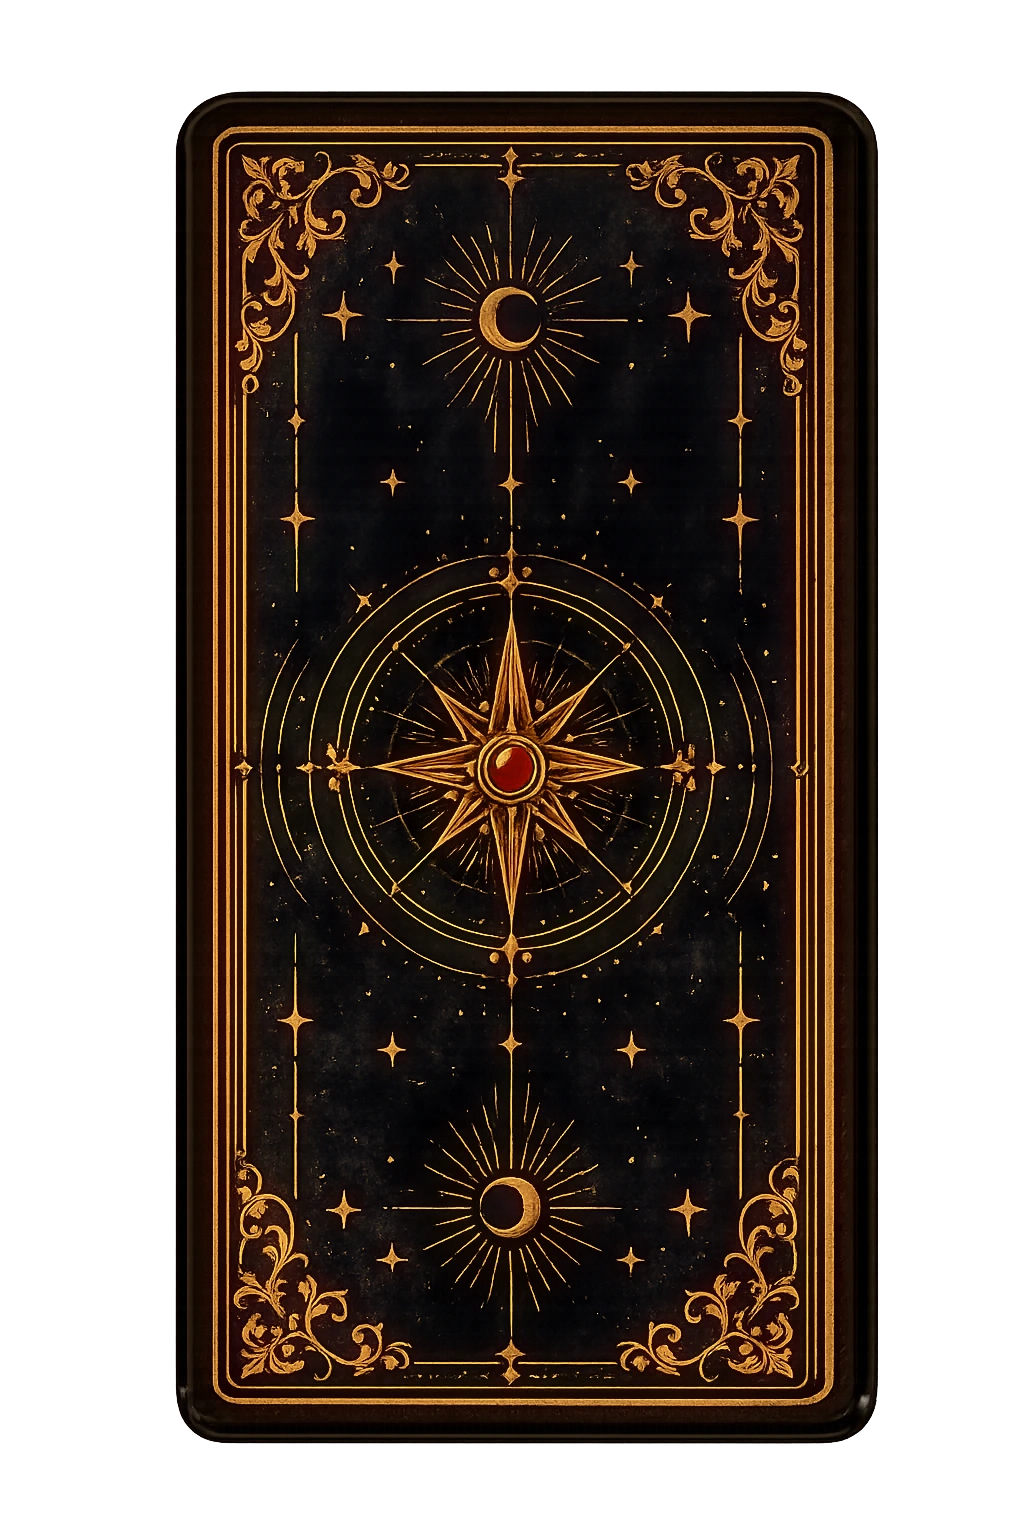
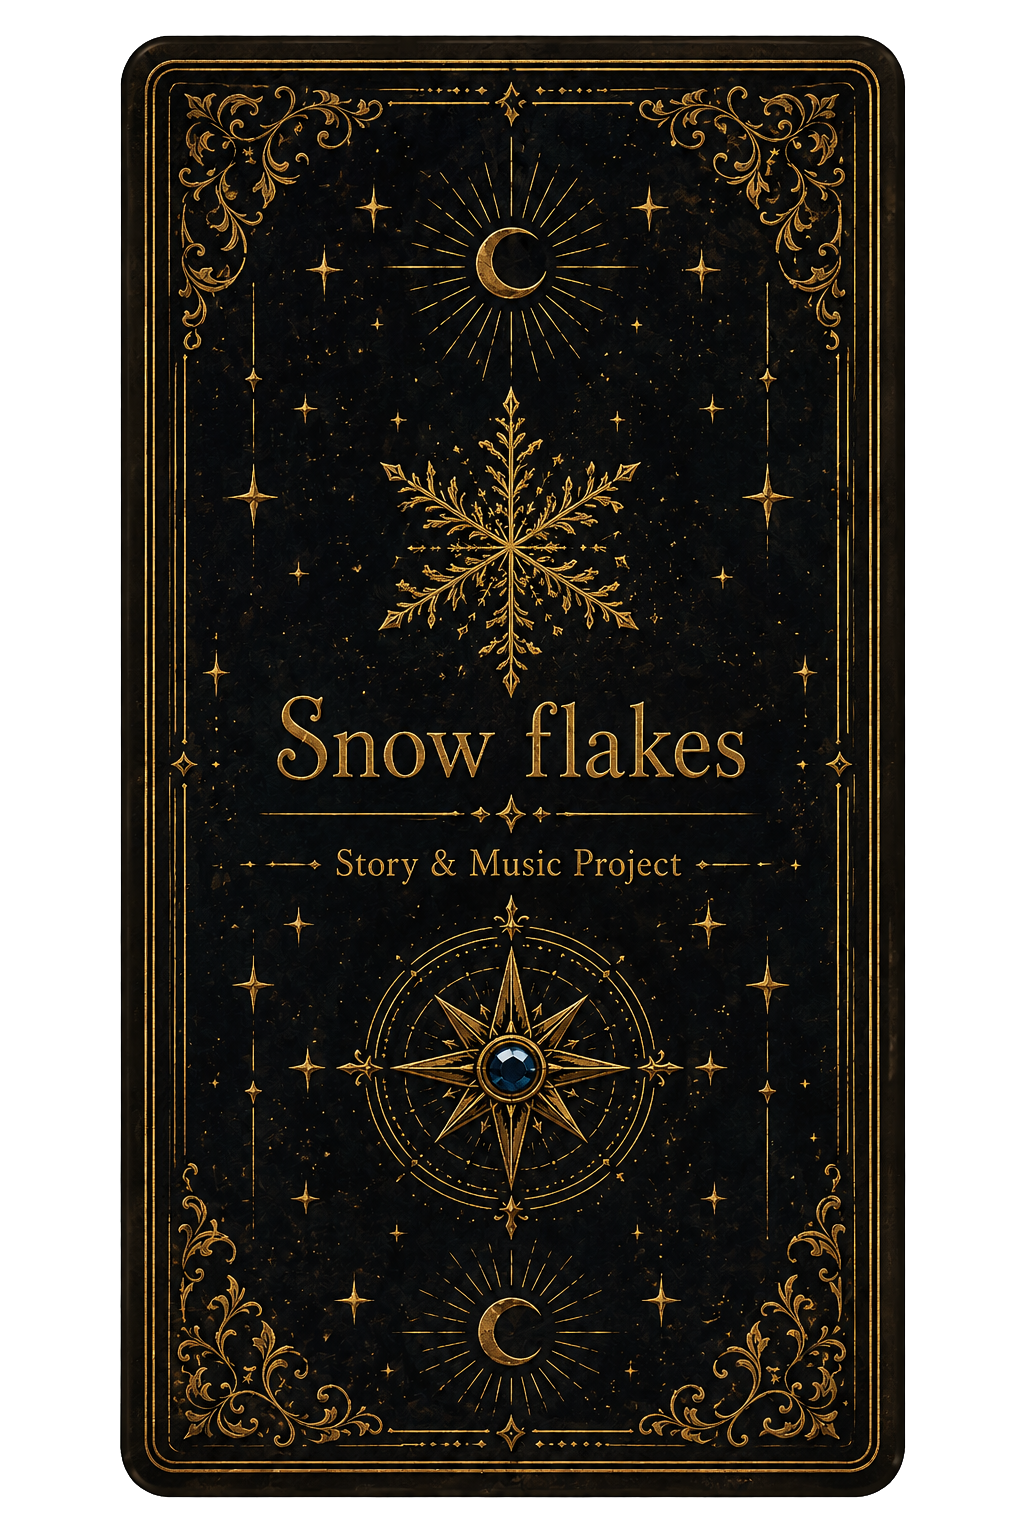
ケルト10字: card_back_b（ロゴ版）・2列・紫drop-shadow・黒枠修正 / クッキー追加 / 中表紙キャラ画像
- Celtic Cross カード裏面を card_back_b.webp（Snow flakesロゴ入り・透過PNG）に変更
- object-fit:contain + filter:drop-shadow 方式に統一して黒枠を解消（単カード・3枚と同方式）
- フリップ時グローを紫 drop-shadow に変更（rgba 167,139,250）
- Phase A カードグリッドを 5列 → 2列（560px幅）に変更
- Phase B リスト・カードズームも card_back_b.webp に統一
- admin.html：ケーキ+50 → クッキー+50 に変更
- 新規追加: item/cookie.png, char_hinata/hayate/kouta.webp（中表紙用）

diff --git a/room/undertone/index.html b/room/undertone/index.html
@@ -804,6 +804,32 @@
     <button onclick="openUtPwModal()" style="margin-top:20px;background:none;border:1px solid rgba(100,116,139,0.3);border-radius:50px;padding:10px 28px;color:#64748b;font-family:'Cormorant Garamond',serif;font-size:11px;letter-spacing:4px;cursor:pointer;transition:all 0.2s;" onmouseover="this.style.borderColor='rgba(196,181,253,0.4)';this.style.color='#c4b5fd'" onmouseout="this.style.borderColor='rgba(100,116,139,0.3)';this.style.color='#64748b'">enter</button>
   </div>
 
+  <!-- CHAPTER COVER -->
+  <div id="chapter-cover" style="padding:40px 20px 32px;text-align:center;border-bottom:1px solid rgba(255,255,255,0.04);margin-bottom:4px;">
+    <p id="cover-eyebrow" style="font-family:'Cormorant Garamond',serif;font-size:9px;letter-spacing:6px;color:#1e293b;margin-bottom:20px;">UNDER TONE</p>
+    <div style="display:flex;justify-content:center;gap:clamp(12px,4vw,32px);margin-bottom:20px;">
+      <div class="cover-char" id="cover-hinata">
+        <div style="width:72px;height:72px;border-radius:50%;overflow:hidden;margin:0 auto 8px;">
+          <img src="char_hinata.webp" style="width:100%;height:100%;object-fit:cover;object-position:top;">
+        </div>
+        <p style="font-family:'Cormorant Garamond',serif;font-size:9px;letter-spacing:3px;color:#475569;">HINATA</p>
+      </div>
+      <div class="cover-char" id="cover-hayate">
+        <div style="width:72px;height:72px;border-radius:50%;overflow:hidden;margin:0 auto 8px;">
+          <img src="char_hayate.webp" style="width:100%;height:100%;object-fit:cover;object-position:top;">
+        </div>
+        <p style="font-family:'Cormorant Garamond',serif;font-size:9px;letter-spacing:3px;color:#475569;">HAYATE</p>
+      </div>
+      <div class="cover-char" id="cover-kouta">
+        <div style="width:72px;height:72px;border-radius:50%;overflow:hidden;margin:0 auto 8px;">
+          <img src="char_kouta.webp" style="width:100%;height:100%;object-fit:cover;object-position:top;">
+        </div>
+        <p style="font-family:'Cormorant Garamond',serif;font-size:9px;letter-spacing:3px;color:#475569;">KOUTA</p>
+      </div>
+    </div>
+    <p id="cover-chapter" style="font-family:'Noto Serif JP',serif;font-size:13px;color:#334155;letter-spacing:4px;"></p>
+  </div>
+
   <!-- EXPLORE -->
   <div id="explore-state">
     <div class="scene-wrap" id="scene-wrap">
@@ -1098,10 +1124,10 @@
     <!-- ケーキセクション（第4章）※ TODO: 4-1インデックス確定後にトリガー更新 -->
     <div id="shop-cake-row" style="display:none;flex-direction:column;gap:0;margin-bottom:16px;background:rgba(255,255,255,0.02);border:1px solid rgba(255,255,255,0.06);border-radius:14px;overflow:hidden;">
       <div onclick="toggleCakeDetail()" style="display:flex;align-items:center;gap:14px;padding:14px 18px;cursor:pointer;">
-        <img src="../../item/cake.png" alt="ケーキ" style="width:44px;height:44px;object-fit:cover;border-radius:9px;flex-shrink:0;">
+        <img src="../../item/cookie.png" alt="クッキー" style="width:44px;height:44px;object-fit:cover;border-radius:9px;flex-shrink:0;">
         <div style="flex:1;">
           <p style="font-family:'Cormorant Garamond',serif;font-size:10px;letter-spacing:3px;color:#475569;margin-bottom:4px;">ITEM</p>
-          <p style="font-family:'Noto Serif JP',serif;font-size:13px;color:#94a3b8;letter-spacing:1px;">ケーキ</p>
+          <p style="font-family:'Noto Serif JP',serif;font-size:13px;color:#94a3b8;letter-spacing:1px;">クッキー</p>
         </div>
         <span id="shop-cake-count" style="font-family:'Cormorant Garamond',serif;font-size:18px;letter-spacing:2px;color:#e2e8f0;margin-right:8px;">× 0</span>
         <span id="cake-detail-arrow" style="font-family:'Cormorant Garamond',serif;font-size:12px;color:#475569;transition:transform 0.25s;display:inline-block;">›</span>
@@ -1437,7 +1463,7 @@ function submitUtPw() {
   <div id="celtic-phase-a" style="min-height:100vh;display:flex;flex-direction:column;align-items:center;justify-content:center;padding:48px 20px;box-sizing:border-box;">
     <p style="font-family:'Cormorant Garamond',serif;font-size:9px;letter-spacing:6px;color:#1e293b;margin-bottom:10px;">SPECIAL FORTUNE</p>
     <p id="celtic-question-display" style="font-family:'Noto Serif JP',serif;font-size:12px;color:#334155;letter-spacing:2px;margin-bottom:44px;text-align:center;max-width:280px;line-height:2.2;"></p>
-    <div id="celtic-card-grid" style="display:grid;grid-template-columns:repeat(5,1fr);gap:clamp(6px,2vw,16px);width:min(720px,92vw);margin-bottom:40px;"></div>
+    <div id="celtic-card-grid" style="display:grid;grid-template-columns:repeat(2,1fr);gap:clamp(10px,2vw,24px);width:min(560px,90vw);margin-bottom:40px;"></div>
     <div id="celtic-nagi-box" style="display:none;background:rgba(8,13,24,0.75);border:1px solid rgba(255,255,255,0.07);border-radius:16px;padding:22px 24px;max-width:300px;width:100%;cursor:pointer;" onclick="celticDialogueNext()">
       <p style="font-family:'Cormorant Garamond',serif;font-size:9px;letter-spacing:5px;color:#475569;margin-bottom:12px;">NAGI</p>
       <p id="celtic-nagi-line" style="font-family:'Noto Serif JP',serif;font-size:16px;color:#e2e8f0;letter-spacing:2px;line-height:2.2;"></p>
@@ -2276,6 +2302,7 @@ function submitUtPw() {
     // 2-5読了後・3章未公開時のみロックボタンを表示
     var between3 = document.getElementById('ch-between-3');
     if (between3) between3.style.display = (ch25Unlocked && !ch3Unlocked) ? '' : 'none';
+    renderCharCover();
   }
 
   var CH2_UNLOCK_DATE = new Date('2026-06-22T00:00:00+09:00');
@@ -2923,6 +2950,35 @@ function submitUtPw() {
     }
   }
 
+  /* ── Chapter Cover ── */
+  function renderCharCover() {
+    var chars = [
+      { id:'cover-hinata',  active: ch3Unlocked  && !ch41Read },
+      { id:'cover-hayate',  active: ch21Unlocked && !ch3Unlocked },
+      { id:'cover-kouta',   active: ch41Read },
+    ];
+    // 全章解放後（ch4-1読了後）は全員アクティブ
+    var allActive = ch41Read;
+    // 1章状態（ch2未解放）も全員表示
+    var noneActive = !ch21Unlocked;
+
+    chars.forEach(function(c) {
+      var el = document.getElementById(c.id);
+      if (!el) return;
+      var img = el.querySelector('img');
+      var isActive = allActive || noneActive || c.active;
+      el.style.opacity = isActive ? '1' : '0.25';
+      if (img) img.style.filter = isActive ? '' : 'grayscale(1)';
+    });
+
+    var chapterEl = document.getElementById('cover-chapter');
+    if (!chapterEl) return;
+    if (!ch21Unlocked)     chapterEl.textContent = '第一章';
+    else if (!ch3Unlocked) chapterEl.textContent = '第二章';
+    else if (!ch41Read)    chapterEl.textContent = '第三章';
+    else                   chapterEl.textContent = '第四章';
+  }
+
   /* ── Tarot ── */
   var pendingDraw = null;
 
@@ -3257,31 +3313,31 @@ function submitUtPw() {
 
   window.eatCake = function() {
     var items = SfSnow.getMonthlyItems();
-    var cnt = items['cake'] || 0;
-    if (cnt <= 0) { showItemMsgPopup('../../item/cake.png', 'ケーキがありません\n\nガチャで手に入る'); return; }
-    items['cake'] = cnt - 1;
+    var cnt = items['cookie'] || 0;
+    if (cnt <= 0) { showItemMsgPopup('../../item/cookie.png', 'クッキーがありません\n\nガチャで手に入る'); return; }
+    items['cookie'] = cnt - 1;
     localStorage.setItem('sf_monthly_items', JSON.stringify(items));
-    SfSnow.addDirect(120, 'ケーキを食べる');
+    SfSnow.addDirect(80, 'クッキーを食べる');
     renderStones();
-    showItemMsgPopup('../../item/cake.png', '食べ��。\n\n＋ 120 Snow');
+    showItemMsgPopup('../../item/cookie.png', '食べた。\n\n＋ 80 Snow');
   };
 
   window.giveCakeToNagi = function() {
     var items = SfSnow.getMonthlyItems();
-    var cnt = items['cake'] || 0;
-    if (cnt <= 0) { showItemMsgPopup('../../item/cake.png', 'ケーキがありません\n\nガチャで手に入る'); return; }
-    items['cake'] = cnt - 1;
+    var cnt = items['cookie'] || 0;
+    if (cnt <= 0) { showItemMsgPopup('../../item/cookie.png', 'クッキーがありません\n\nガチャで手に入る'); return; }
+    items['cookie'] = cnt - 1;
     localStorage.setItem('sf_monthly_items', JSON.stringify(items));
-    // 累��カウント更新
-    var total = parseInt(localStorage.getItem('sf_nagi_cake_total') || '0') + 1;
-    localStorage.setItem('sf_nagi_cake_total', String(total));
+    // 累計カウント更新
+    var total = parseInt(localStorage.getItem('sf_nagi_cookie_total') || '0') + 1;
+    localStorage.setItem('sf_nagi_cookie_total', String(total));
     // 占いトリガー回は Snow 付与なし
     if (total % 3 !== 0) {
-      SfSnow.addDirect(80, 'ナギにケーキを渡す');
+      SfSnow.addDirect(80, 'ナギにクッキーを渡す');
     }
     renderStones();
-    // TODO: ナギのケーキ反応画像・セリフ・ポップアップ（ビールと同構造で実装予定）
-    showItemMsgPopup('../../item/cake.png', 'ナギに渡した。');
+    // TODO: ナギのクッキー反応画像・セリフ・ポップアップ（ビールと同構造で実装予定）
+    showItemMsgPopup('../../item/cookie.png', 'ナギに渡した。');
   };
 
   window.drinkBeer = function() {
@@ -3636,24 +3692,25 @@ function submitUtPw() {
       var isRev = !card.up;
       var slot = document.createElement('div');
       slot.id = 'celtic-slot-' + i;
-      slot.style.cssText = 'aspect-ratio:2/3;border-radius:8px;opacity:0;transition:opacity 0.4s,box-shadow 0.6s;perspective:400px;overflow:hidden;';
+      slot.style.cssText = 'aspect-ratio:2/3;opacity:0;transition:opacity 0.4s;perspective:400px;';
       var inner = document.createElement('div');
       inner.id = 'celtic-slot-inner-' + i;
-      inner.style.cssText = 'width:100%;height:100%;position:relative;transform-style:preserve-3d;transition:transform 0.7s cubic-bezier(0.4,0,0.2,1);border-radius:8px;';
+      inner.style.cssText = 'width:100%;height:100%;position:relative;transform-style:preserve-3d;transition:transform 0.7s cubic-bezier(0.4,0,0.2,1);';
       // 表面（裏向き・フリップ前）
       var front = document.createElement('div');
-      front.style.cssText = 'position:absolute;inset:0;backface-visibility:hidden;border-radius:8px;overflow:hidden;';
+      front.style.cssText = 'position:absolute;inset:0;backface-visibility:hidden;';
       var bImg = document.createElement('img');
-      bImg.src = 'card_back_a.webp';
-      bImg.style.cssText = 'width:100%;height:100%;object-fit:cover;border-radius:8px;opacity:0.55;';
+      bImg.src = 'card_back_b.webp';
+      bImg.style.cssText = 'width:100%;height:100%;object-fit:contain;display:block;filter:drop-shadow(0 0 6px rgba(167,139,250,0.2));transition:filter 0.6s;';
       front.appendChild(bImg);
       // 裏面（フリップ後に見える面）
       var back = document.createElement('div');
-      back.style.cssText = 'position:absolute;inset:0;backface-visibility:hidden;transform:rotateY(180deg);border-radius:8px;overflow:hidden;';
+      back.style.cssText = 'position:absolute;inset:0;backface-visibility:hidden;transform:rotateY(180deg);';
       var fImg = document.createElement('img');
-      fImg.src = 'card_back_a.webp';
+      fImg.src = 'card_back_b.webp';
+      fImg.className = 'celtic-fimg-' + i;
       // 逆位置は180°回転
-      fImg.style.cssText = 'width:100%;height:100%;object-fit:cover;border-radius:8px;opacity:0.55;' + (isRev ? 'transform:rotate(180deg);' : '');
+      fImg.style.cssText = 'width:100%;height:100%;object-fit:contain;display:block;transition:filter 0.6s;' + (isRev ? 'transform:rotate(180deg);' : '');
       back.appendChild(fImg);
       // 位置番号バッジ
       var numBadge = document.createElement('div');
@@ -3692,11 +3749,14 @@ function submitUtPw() {
           var sl  = document.getElementById('celtic-slot-' + idx);
           if (!inn) return;
           inn.style.transform = 'rotateY(180deg)';
-          if (sl) sl.style.boxShadow = '0 0 18px rgba(196,181,253,0.55), 0 0 36px rgba(196,181,253,0.25)';
-          setTimeout(function() {
-            var sl2 = document.getElementById('celtic-slot-' + idx);
-            if (sl2) sl2.style.boxShadow = '0 0 6px rgba(196,181,253,0.15)';
-          }, 900);
+          var fImgEl = document.querySelector('.celtic-fimg-' + idx);
+          if (fImgEl) {
+            fImgEl.style.filter = 'drop-shadow(0 0 20px rgba(167,139,250,0.95)) drop-shadow(0 0 40px rgba(124,58,237,0.6)) drop-shadow(0 0 70px rgba(124,58,237,0.3))';
+            setTimeout(function() {
+              var fi = document.querySelector('.celtic-fimg-' + idx);
+              if (fi) fi.style.filter = 'drop-shadow(0 0 8px rgba(167,139,250,0.4))';
+            }, 900);
+          }
           if (idx === 9) {
             setTimeout(function() {
               var box  = document.getElementById('celtic-nagi-box');
@@ -3743,11 +3803,11 @@ function submitUtPw() {
       var imgWrap = document.createElement('div');
       imgWrap.style.cssText = 'flex-shrink:0;';
       var cImg = document.createElement('img');
-      cImg.src = 'card_back_a.webp';
-      cImg.style.cssText = 'width:52px;height:auto;border-radius:6px;display:block;box-shadow:0 0 10px rgba(196,181,253,0.12);cursor:pointer;';
+      cImg.src = 'card_back_b.webp';
+      cImg.style.cssText = 'width:52px;height:auto;object-fit:contain;display:block;filter:drop-shadow(0 0 6px rgba(167,139,250,0.3));cursor:pointer;';
       (function(c, r) {
         cImg.addEventListener('click', function() {
-          openCardZoom('card_back_a.webp', c.name, c.num + '  ' + c.arch, r, !c.up);
+          openCardZoom('card_back_b.webp', c.name, c.num + '  ' + c.arch, r, !c.up);
         });
       })(card, reading);
       imgWrap.appendChild(cImg);

diff --git a/admin.html b/admin.html
@@ -316,8 +316,8 @@
         <button onclick="addUtItem('beer',50)" style="flex:1;padding:12px 8px;background:rgba(253,200,100,0.08);border:1px solid rgba(253,200,100,0.2);border-radius:10px;color:#fcd34d;font-size:13px;cursor:pointer;" onmouseenter="this.style.background='rgba(253,200,100,0.18)'" onmouseleave="this.style.background='rgba(253,200,100,0.08)'">
           ビール +50
         </button>
-        <button onclick="addUtItem('cake',50)" style="flex:1;padding:12px 8px;background:rgba(251,207,232,0.08);border:1px solid rgba(251,207,232,0.2);border-radius:10px;color:#fbcfe8;font-size:13px;cursor:pointer;" onmouseenter="this.style.background='rgba(251,207,232,0.18)'" onmouseleave="this.style.background='rgba(251,207,232,0.08)'">
-          ケーキ +50
+        <button onclick="addUtItem('cookie',50)" style="flex:1;padding:12px 8px;background:rgba(251,207,232,0.08);border:1px solid rgba(251,207,232,0.2);border-radius:10px;color:#fbcfe8;font-size:13px;cursor:pointer;" onmouseenter="this.style.background='rgba(251,207,232,0.18)'" onmouseleave="this.style.background='rgba(251,207,232,0.08)'">
+          クッキー +50
         </button>
         <button onclick="addUtItem('coaster_hayate',50)" style="flex:1;padding:12px 8px;background:rgba(147,197,253,0.08);border:1px solid rgba(147,197,253,0.2);border-radius:10px;color:#93c5fd;font-size:13px;cursor:pointer;" onmouseenter="this.style.background='rgba(147,197,253,0.18)'" onmouseleave="this.style.background='rgba(147,197,253,0.08)'">
           コースター +50
